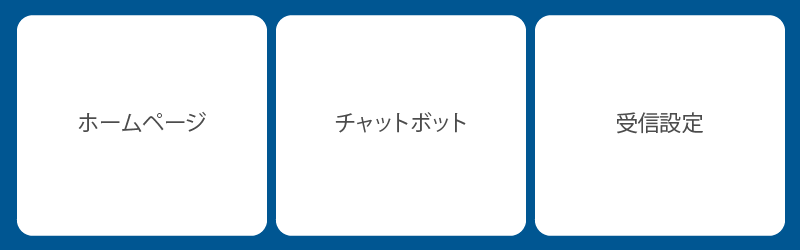
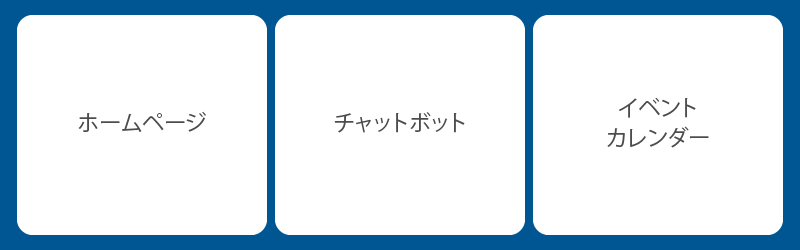
[fix] line: seed & brakeman & profile

diff --git a/db/seeds/cms/contents/line.rb b/db/seeds/cms/contents/line.rb
@@ -1,10 +1,4 @@
 puts "# LINE連携"
-@site = Cms::Site.where(id: 1).first
-
-Cms::Node::LineHub.create!(
-  site_id: @site.id, state: "public", name: "LINE HUB", filename: "receiver", depth: 1,
-  released_type: "fixed", layout_id: 12, route: "cms/line_hub", view_route: "cms/line_hub"
-)
 
 def create_delivery_category_selection(data)
   Cms::Line::DeliverCategory::Selection.create!(
@@ -52,6 +46,20 @@ def create_text_template(data)
     text: data[:text], _type: "Cms::Line::Template::Text")
 end
 
+def init_image_template(data)
+  Cms::Line::Template::Image.new(
+    site_id: @site.id, message_id: data[:message_id], name: data[:name], _type: "Cms::Line::Template::Image"
+  )
+end
+
+def create_deliver_plan(data)
+  Cms::Line::DeliverPlan.create!(
+    site_id: @site.id, name: data[:nmae],
+    deliver_date: data[:deliver_date], state: data[:state], message_id: data[:message_id]
+  )
+end
+
+
 def create_servive_chat(data)
   Cms::Line::Service::Hook::Chat.create!(
     site_id: @site.id, name: data[:name], action_type: data[:action_type], group_id: data[:group_id],
@@ -59,9 +67,11 @@ def create_servive_chat(data)
   )
 end
 
-def save_ss_files(path, data)
-  puts path
-  cond = { site_id: @site.id, filename: data[:filename], model: data[:model], owner_item_type: data[:owner_item_type], owner_item_id: data[:owner_item_id] }
+def save_line_files(path, data)
+  cond = {
+    site_id: @site.id, filename: data[:filename], owner_item_id: data[:owner_item_id],
+    owner_item_type: data[:owner_item_type], model: data[:model]
+  }
 
   file = Fs::UploadedFile.create_from_file(path)
   item = SS::File.find_or_initialize_by(cond)
@@ -75,11 +85,16 @@ def save_ss_files(path, data)
     end
     item.name = name
   end
-  # item.cur_user = @user
   item.save
 
   item
 end
+
+# LINE HUB
+Cms::Node::LineHub.create!(
+  site_id: @site.id, state: "public", name: "LINE HUB", filename: "receiver", depth: 1,
+  released_type: "fixed", layout_id: 12, route: "cms/line_hub", view_route: "cms/line_hub"
+)
 
 # 配信カテゴリー
 category1 = create_delivery_category(name: "年代", filename: "age", order: 10)
@@ -109,22 +124,27 @@ end
   create_delivery_category_selection(name: v, filename: "area/area#{i + 1}", parent_id: category3.id, order: "#{i + 1}0".to_i)
 end
 
-# リッチメニュー画像
-file = save_ss_files "ss_files/line/richmenu.png", filename: "richmenu.png", model: "cms/line/richmenu/menu", owner_item_type: "Cms::Line::Richmenu::Menu"
-
 # 配信条件
 deliver_category_ids1 = []
 deliver_category_ids2 = []
+deliver_category_ids3 = []
 deliver_category_ids1 << Cms::Line::DeliverCategory::Selection.find_by(name: "30代").id
 deliver_category_ids2 << Cms::Line::DeliverCategory::Selection.find_by(name: "40代").id
+deliver_category_ids3 << Cms::Line::DeliverCategory::Selection.find_by(name: "50代").id
 deliver_category_ids1 << Cms::Line::DeliverCategory::Selection.find_by(name: "女性").id
 deliver_category_ids2 << Cms::Line::DeliverCategory::Selection.find_by(name: "男性").id
+deliver_category_ids3 << Cms::Line::DeliverCategory::Selection.find_by(name: "女性").id
 deliver_category_ids1 << Cms::Line::DeliverCategory::Selection.find_by(name: "シラサギ町").id
 deliver_category_ids2 << Cms::Line::DeliverCategory::Selection.find_by(name: "アオサギ町").id
+deliver_category_ids3 << Cms::Line::DeliverCategory::Selection.find_by(name: "クロサギ町").id
 develiver_condition1 = create_deliver_condition(deliver_category_ids: deliver_category_ids1, name: "配信条件１", order: 10)
 develiver_condition2 = create_deliver_condition(deliver_category_ids: deliver_category_ids2, name: "配信条件２", order: 20)
 
 # メッセージ
+msg3 = create_message(
+  deliver_state: "draft", deliver_category_ids: deliver_category_ids3,
+  name: "メッセージ３", deliver_condition_state: "multicast_with_input_condition"
+)
 msg2 = create_message(
   name: "メッセージ２", deliver_condition_state: "multicast_with_registered_condition",
   deliver_condition_id: develiver_condition1.id, deliver_state: "draft"
@@ -132,24 +152,48 @@ msg2 = create_message(
 msg1 = create_message(
   name: "メッセージ１", deliver_state: "draft", deliver_condition_state: "multicast_with_no_condition"
 )
-create_page_template(name: "記事テンプレート", message_id: msg1.id, page: Article::Page.last, thumb_state: "none")
+
+image_template = init_image_template(name: "画像テンプレート", message_id: msg3.id)
+create_text_template(name: "画像・テキストテンプレート", message_id: msg3.id, text: "シラサギからのお知らせです。\r\nメッセージを入力します。")
 create_text_template(name: "テキストテンプレート", message_id: msg2.id, text: "シラサギからのお知らせです。\r\nメッセージを入力します。")
+create_page_template(name: "記事テンプレート", message_id: msg1.id, page: Article::Page.last, thumb_state: "none")
+
+image = save_line_files(
+  "ss_files/key_visual/keyvisual01.jpg", model: "cms/line/template/image", owner_item_id: image_template.id,
+  name: "keyvisual01.jpg", filename: "keyvisual01.jpg", owner_item_type: "Cms::Line::Template::Image"
+)
+image_template.image_id = image.id
+image_template.save!
+
+date_time3 = DateTime.now + 10
+date_time_japan3 = "#{date_time3.strftime("%Y/%m/%d %H:%M")} (#{I18n.t("date.abbr_day_names")[date_time3.wday]})"
+create_deliver_plan(name: date_time_japan3, deliver_date: date_time3, state: "ready", message_id: msg3.id)
+
+date_time1 = DateTime.now + 5
+date_time_japan1 = "#{date_time1.strftime("%Y/%m/%d %H:%M")} (#{I18n.t("date.abbr_day_names")[date_time1.wday]})"
+create_deliver_plan(name: date_time_japan1, deliver_date: date_time1, state: "ready", message_id: msg1.id)
 
 # リッチメニュー グループ
 richmenu_group = Cms::Line::Richmenu::Group.create(site_id: @site.id, name: "リッチメニュー ", state: "public")
 
+# リッチメニュー画像
+file = save_line_files(
+  "ss_files/line/richmenu.png", filename: "richmenu.png",
+  owner_item_type: "Cms::Line::Richmenu::Menu", model: "cms/line/richmenu/menu"
+)
+
 # リッチメニュー メニュー
 richmenu_in_areas = [
-  {"x"=>"16", "y"=>"15", "width"=>"252", "height"=>"219", "type"=>"uri", "text"=>"", "data"=>"", "uri"=>"https://#{@site.domain}", "menu_id"=>""},
-  {"x"=>"276", "y"=>"14", "width"=>"248", "height"=>"222", "type"=>"postback", "text"=>"", "data"=>"チャットボット", "uri"=>"", "menu_id"=>""},
-  {"x"=>"533", "y"=>"14", "width"=>"251", "height"=>"221", "type"=>"uri", "text"=>"https://#{@site.domain}/login/login.html?ref=%2Fmypage%2Fprofile%2F", "data"=>"", "uri"=>"https://#{@site.domain}/login/login.html?ref=%2Fmypage%2Fprofile%2F", "menu_id"=>""}
+  {"x"=>"16", "y"=>"15", "width"=>"252", "height"=>"219", "type"=>"uri", "uri"=>"https://#{@site.domain}"},
+  {"x"=>"276", "y"=>"14", "width"=>"248", "height"=>"222", "type"=>"postback", "data"=>"チャットボット"},
+  {"x"=>"533", "y"=>"14", "width"=>"251", "height"=>"221", "type"=>"uri", "uri"=>"https://#{@site.domain}/calendar"}
 ]
 richmenu = create_richmenu_menu(
   site_id: @site.id, name: "シラサギリッチメニュー ", target: "default", area_size: 3, width: 800, height: 250,
   chat_bar_text: "shirasagi", group_id: richmenu_group.id, image_id: file.id, in_areas: richmenu_in_areas
 )
 file.owner_item_id = richmenu.id
-file.save!
+file.save
 
 # サービス
 service_group = create_service_group(name: "アクション", order: 0, state: "public")

diff --git a/app/models/cms/line/template/base.rb b/app/models/cms/line/template/base.rb
@@ -43,7 +43,7 @@ class Cms::Line::Template::Base
     message.state
   end
 
-  def file_previewable?(file, user:, member:)
+  def file_previewable?(file, site:, user:, member:)
     state == "public"
   end
 
@@ -58,6 +58,15 @@ class Cms::Line::Template::Base
     item.user = user
     item.order = order
     item
+  end
+
+  def owned_files
+    files = SS::File.where(owner_item_type: self.class.name, owner_item_id: id).to_a
+    if page
+      _page = page.becomes_with_route
+      files += SS::File.where(owner_item_type: _page.class.name, owner_item_id: _page.id).to_a
+    end
+    files
   end
 
   private

diff --git a/app/controllers/cms/line/service/hooks_controller.rb b/app/controllers/cms/line/service/hooks_controller.rb
@@ -23,7 +23,11 @@ class Cms::Line::Service::HooksController < ApplicationController
   end
 
   def set_model
-    @type = params[:type].presence
+    @type = %w(facility_search chat image_map json_template api -).find do |type|
+      type == params[:type].presence
+    end
+    raise "400" if @type.nil?
+
     @type = nil if @type == "-"
     @model = @type ? "#{Cms::Line::Service::Hook}::#{@type.classify}".constantize : Cms::Line::Service::Hook::Base
   end

diff --git a/app/controllers/cms/line/templates_controller.rb b/app/controllers/cms/line/templates_controller.rb
@@ -27,7 +27,11 @@ class Cms::Line::TemplatesController < ApplicationController
   end
 
   def set_model
-    @type = params[:type].presence
+    @type = %w(text image page json_body -).find do |type|
+      type == params[:type].presence
+    end
+    raise "400" if @type.nil?
+
     @type = nil if @type == "-"
     @model = @type ? "#{Cms::Line::Template}::#{@type.classify}".constantize : Cms::Line::Template::Base
   end
